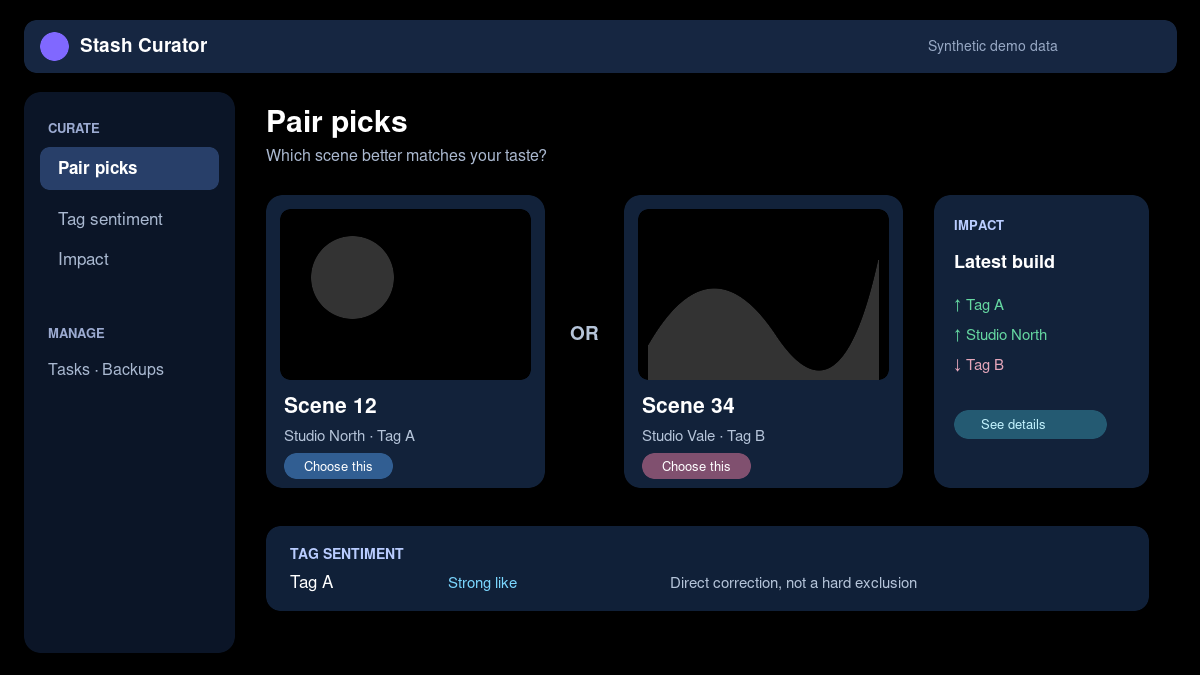
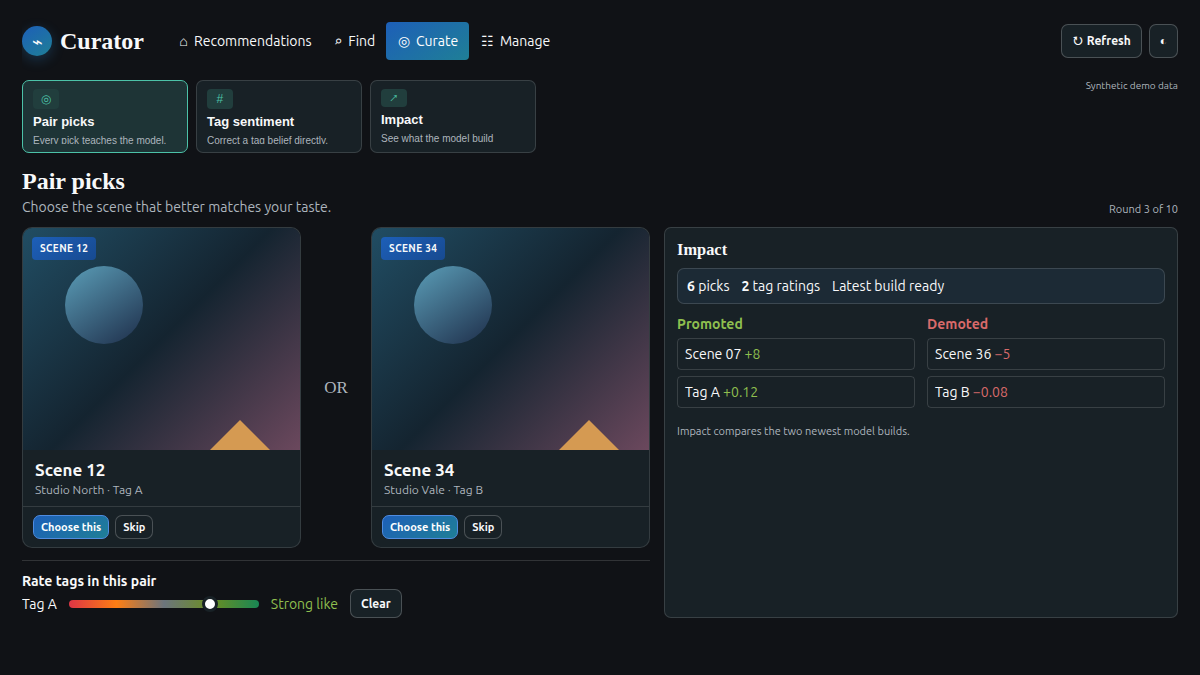
docs: make showcase mocks match curator ui

diff --git a/docs/assets/showcase-mocks.html b/docs/assets/showcase-mocks.html
@@ -1,0 +1,12 @@
+<!doctype html>
+<html lang="en">
+<meta charset="utf-8">
+<link rel="stylesheet" href="../../plugin/stash-curator.css">
+<style>
+*{box-sizing:border-box}body{margin:0;background:#101216;color:#f8f9fa;font:14px -apple-system,BlinkMacSystemFont,"Segoe UI",Roboto,sans-serif}.mock{height:675px;width:1200px;overflow:hidden;padding:14px 22px;background:#101216}.curator-page{margin:0;min-height:0;width:100%;padding:0;max-width:none}.curator-header{height:54px}.curator-brand{align-items:center;display:flex;gap:.5rem;flex:0 0 auto}.curator-brand-mark{align-items:center;background:var(--curator-gradient-brand);border-radius:50%;display:flex;height:30px;justify-content:center;width:30px}.curator-brand h1{font-family:var(--curator-font-display);font-size:1.5rem;margin:0}.curator-tabs{height:38px;justify-content:center}.nav-link{background:transparent;border:0;font:inherit}.controls{display:flex;gap:7px}.btn{border:1px solid var(--curator-border-strong);border-radius:var(--curator-radius);font:600 12px var(--curator-font-ui);padding:7px 10px}.content{padding-top:12px}.lane-row{display:flex;gap:8px;margin:0 0 12px}.curator-lane-card{height:73px;padding:8px 10px;width:166px}.curator-lane-card-icon{font-size:12px}.curator-lane-card-name{font-size:13px}.curator-lane-card-desc{font-size:10px}.view-head{align-items:end;display:flex;justify-content:space-between;margin:5px 0 12px}.view-head h2{font-family:var(--curator-font-display);font-size:24px;margin:0}.view-head p{color:var(--curator-text-muted);margin:4px 0 0}.subtle{color:var(--curator-text-muted);font-size:11px}.grid{display:grid;gap:12px;grid-template-columns:repeat(3,1fr)}.scene-card{background:var(--curator-card-surface)}.poster{height:173px;position:relative;background:linear-gradient(135deg,#214d63,#142430 50%,#6b485d)}.poster::before,.poster::after{content:"";position:absolute}.poster::before{background:linear-gradient(145deg,#5b9eb8,#1e2e4a);border-radius:50%;height:78px;left:42px;top:38px;width:78px}.poster::after{border:30px solid transparent;border-bottom-color:#d59a52;bottom:0;right:30px}.scene-specs{background:#0009;border-radius:3px;bottom:8px;font-size:11px;padding:4px 6px;position:absolute;right:8px}.badge{background:linear-gradient(145deg,#1d5fb8,#174a90);border-radius:4px;font-size:10px;font-weight:700;left:9px;letter-spacing:.04em;padding:6px 8px;position:absolute;top:9px}.card-section{padding:10px 12px}.card-section-title{font-size:17px;font-weight:700;margin:0 0 4px}.card-meta{color:var(--curator-card-text-muted);font-size:12px}.card-actions{border-top:1px solid var(--curator-card-border);display:flex;gap:6px;padding:8px 10px}.card-actions .btn{font-size:11px;padding:5px 7px}.explain{background:var(--curator-surface);border:1px solid var(--curator-border);border-radius:var(--curator-radius-lg);margin-top:12px;padding:12px 14px}.explain-grid{display:grid;gap:18px;grid-template-columns:1.15fr .85fr}.explain h3{font-family:var(--curator-font-display);font-size:17px;margin:0 0 7px}.explain p{color:var(--curator-text-muted);margin:0}.evidence{display:grid;gap:6px}.evidence div{align-items:center;border-bottom:1px solid var(--curator-border);display:flex;justify-content:space-between;padding-bottom:5px}.support{color:#8fbf4f}.bar{background:var(--curator-wash-recessed);border-radius:4px;height:7px;overflow:hidden;width:135px}.bar i{background:var(--curator-accent);display:block;height:100%;width:76%}.find-toolbar{align-items:center;background:var(--curator-surface);border:1px solid var(--curator-border);border-radius:var(--curator-radius);display:flex;gap:8px;margin-bottom:12px;padding:9px}.field{background:var(--curator-bg);border:1px solid var(--curator-border);border-radius:4px;color:var(--curator-text-muted);flex:1;padding:8px}.find-grid{display:grid;gap:12px;grid-template-columns:1.2fr .8fr}.result-list{display:grid;gap:9px;grid-template-columns:repeat(2,1fr)}.external{border-left:3px solid var(--curator-hue-expand)}.external .poster{height:116px;background:linear-gradient(135deg,#583544,#2b3f63)}.external:nth-child(2) .poster{background:linear-gradient(135deg,#274e43,#463264)}.side-panel{background:var(--curator-surface);border:1px solid var(--curator-border);border-radius:var(--curator-radius);padding:13px}.side-panel h3{font-family:var(--curator-font-display);margin:0 0 8px}.filter{border-bottom:1px solid var(--curator-border);color:var(--curator-text-muted);display:flex;justify-content:space-between;padding:9px 0}.pair{display:grid;gap:12px;grid-template-columns:1fr 46px 1fr}.pair .scene-card{border:1px solid var(--curator-card-border);border-radius:var(--curator-radius-lg);overflow:hidden}.pair .poster{height:222px}.versus{align-self:center;color:var(--curator-text-muted);font-family:var(--curator-font-display);font-size:17px;text-align:center}.curate-layout{display:grid;gap:14px;grid-template-columns:1.1fr .9fr}.sentiment{border-top:1px solid var(--curator-border);margin-top:12px;padding-top:12px}.sentiment-row{align-items:center;display:flex;gap:12px}.track{background:linear-gradient(90deg,#dc3545,#fd7e14,#6c757d,#6b8e23,#198754);border-radius:6px;height:8px;position:relative;width:190px}.track i{background:#fff;border:3px solid var(--curator-surface);border-radius:50%;height:16px;left:70%;position:absolute;top:-4px;width:16px}.impact-card{background:var(--curator-surface);border:1px solid var(--curator-border);border-radius:var(--curator-radius);padding:12px}.impact-card h3{font-family:var(--curator-font-display);margin:0 0 8px}.impact-summary{background:color-mix(in srgb,var(--curator-accent) 8%,var(--curator-surface));border:1px solid var(--curator-border);border-radius:var(--curator-radius);display:flex;gap:12px;margin-bottom:12px;padding:9px}.impact-columns{display:grid;gap:12px;grid-template-columns:1fr 1fr}.impact-row{border:1px solid var(--curator-border);border-radius:4px;margin:6px 0;padding:7px}.up{color:#8fbf4f}.down{color:#d96a6a}.synthetic{color:var(--curator-text-muted);font-size:10px;margin-left:auto}
+</style>
+<body>
+<section class="mock" id="recommendations"><main class="curator-page"><header class="curator-header"><div class="curator-brand"><span class="curator-brand-mark">⌁</span><h1>Curator</h1></div><nav class="curator-navigation"><div class="curator-tabs"><button class="nav-link active">⌂ <span>Recommendations</span></button><button class="nav-link">⌕ <span>Find</span></button><button class="nav-link">◎ <span>Curate</span></button><button class="nav-link">☷ <span>Manage</span></button></div></nav><div class="controls"><button class="btn btn-secondary">↻ Refresh</button><button class="btn btn-secondary">◐</button></div></header><div class="content"><div class="lane-row curator-lane-switcher"><button class="curator-lane-card" aria-pressed="true" style="--lc:var(--curator-hue-for_you)"><span class="curator-lane-card-icon">✦</span><span class="curator-lane-card-name">For You</span><span class="curator-lane-card-desc">A balanced shelf of strong matches.</span></button><button class="curator-lane-card"><span class="curator-lane-card-icon">★</span><span class="curator-lane-card-name">Best Bets</span><span class="curator-lane-card-desc">Strong unseen matches.</span></button><button class="curator-lane-card"><span class="curator-lane-card-icon">↺</span><span class="curator-lane-card-name">Revisit</span><span class="curator-lane-card-desc">Good scenes, ready again.</span></button><button class="curator-lane-card"><span class="curator-lane-card-icon">↗</span><span class="curator-lane-card-name">Stretch</span><span class="curator-lane-card-desc">Familiar with one challenge.</span></button><button class="curator-lane-card"><span class="curator-lane-card-icon">◌</span><span class="curator-lane-card-name">Blind Spots</span><span class="curator-lane-card-desc">A corroborated library gap.</span></button><span class="synthetic">Synthetic demo data</span></div><div class="view-head"><div><h2>For You</h2><p>Balanced recommendations, with a little exploration.</p></div><button class="btn btn-secondary">Balanced ▾</button></div><div class="grid"><article class="curator-card"><div class="scene-card"><div class="poster"><span class="badge">FOR YOU</span><span class="scene-specs">1080p · 24m</span></div><div class="card-section"><div class="card-section-title">Scene 12</div><div class="card-meta">Studio North · Tag A · Tag C</div></div></div><div class="card-actions"><button class="btn btn-secondary">Why this?</button><button class="btn btn-secondary">♡</button><button class="btn btn-secondary">☰</button></div></article><article class="curator-card"><div class="scene-card"><div class="poster"><span class="badge">REVISIT</span><span class="scene-specs">4K · 31m</span></div><div class="card-section"><div class="card-section-title">Scene 27</div><div class="card-meta">Studio Vale · Tag B · Tag D</div></div></div><div class="card-actions"><button class="btn btn-secondary">Why this?</button><button class="btn btn-secondary">♡</button><button class="btn btn-secondary">☰</button></div></article><article class="curator-card"><div class="scene-card"><div class="poster"><span class="badge">STRETCH</span><span class="scene-specs">1080p · 18m</span></div><div class="card-section"><div class="card-section-title">Scene 43</div><div class="card-meta">Studio Field · Tag A · Tag E</div></div></div><div class="card-actions"><button class="btn btn-secondary">Why this?</button><button class="btn btn-secondary">♡</button><button class="btn btn-secondary">☰</button></div></article></div><section class="explain"><div class="explain-grid"><div><h3>Why this?</h3><p>Strong positive history with Studio North and a familiar content pattern support this pick.</p></div><div class="evidence"><div><span class="support">Supports</span><strong>Studio appeal</strong><span>86%</span></div><div><span class="support">Supports</span><strong>Familiar content pattern</strong><span>74%</span></div><div><span>Current fit</span><span class="bar"><i></i></span></div></div></div></section></div></main></section>
+<section class="mock" id="find"><main class="curator-page"><header class="curator-header"><div class="curator-brand"><span class="curator-brand-mark">⌁</span><h1>Curator</h1></div><nav class="curator-navigation"><div class="curator-tabs"><button class="nav-link">⌂ <span>Recommendations</span></button><button class="nav-link active">⌕ <span>Find</span></button><button class="nav-link">◎ <span>Curate</span></button><button class="nav-link">☷ <span>Manage</span></button></div></nav><div class="controls"><button class="btn btn-secondary">↻ Refresh</button><button class="btn btn-secondary">◐</button></div></header><div class="content"><div class="lane-row curator-find-switcher"><button class="curator-lane-card" aria-pressed="true" style="--lc:var(--curator-hue-similar)"><span class="curator-lane-card-icon">⌕</span><span class="curator-lane-card-name">Similar</span><span class="curator-lane-card-desc">Find related scenes and performers.</span></button><button class="curator-lane-card" style="--lc:var(--curator-hue-expand)"><span class="curator-lane-card-icon">↗</span><span class="curator-lane-card-name">Expand</span><span class="curator-lane-card-desc">External metadata candidates.</span></button><button class="curator-lane-card" style="--lc:var(--curator-hue-hunt)"><span class="curator-lane-card-icon">◉</span><span class="curator-lane-card-name">Performer Hunt</span><span class="curator-lane-card-desc">Follow a performer’s catalog.</span></button><span class="synthetic">Synthetic demo data</span></div><div class="view-head"><div><h2>Similar</h2><p>Find related library scenes and performers.</p></div></div><div class="find-toolbar"><div class="field">Scene 12</div><button class="btn btn-secondary">Library ▾</button><button class="btn btn-primary">Find similar</button></div><div class="find-grid"><div class="result-list"><article class="curator-card"><div class="scene-card"><div class="poster"><span class="badge">SIMILAR</span></div><div class="card-section"><div class="card-section-title">Scene 07</div><div class="card-meta">Studio North · 84% related</div></div></div><div class="card-actions"><button class="btn btn-secondary">Why this?</button><button class="btn btn-secondary">♡</button></div></article><article class="curator-card"><div class="scene-card"><div class="poster"><span class="badge">SIMILAR</span></div><div class="card-section"><div class="card-section-title">Scene 36</div><div class="card-meta">Studio Field · 79% related</div></div></div><div class="card-actions"><button class="btn btn-secondary">Why this?</button><button class="btn btn-secondary">♡</button></div></article><article class="curator-card external"><div class="scene-card"><div class="poster"><span class="badge">EXPAND</span></div><div class="card-section"><div class="card-section-title">Scene 51</div><div class="card-meta">External metadata lead · 76%</div></div></div></article><article class="curator-card external"><div class="scene-card"><div class="poster"><span class="badge">HUNT</span></div><div class="card-section"><div class="card-section-title">Scene 64</div><div class="card-meta">Performer catalog result</div></div></div></article></div><aside class="side-panel"><h3>Filters</h3><div class="filter"><span>Result type</span><strong>Scenes</strong></div><div class="filter"><span>Include tags</span><strong>+ Add</strong></div><div class="filter"><span>Exclude tags</span><strong>+ Add</strong></div><div class="filter"><span>Hide exact PHash</span><strong>On</strong></div><p class="subtle">External results are metadata leads, not proof that a scene is available locally.</p></aside></div></div></main></section>
+<section class="mock" id="curate"><main class="curator-page"><header class="curator-header"><div class="curator-brand"><span class="curator-brand-mark">⌁</span><h1>Curator</h1></div><nav class="curator-navigation"><div class="curator-tabs"><button class="nav-link">⌂ <span>Recommendations</span></button><button class="nav-link">⌕ <span>Find</span></button><button class="nav-link active">◎ <span>Curate</span></button><button class="nav-link">☷ <span>Manage</span></button></div></nav><div class="controls"><button class="btn btn-secondary">↻ Refresh</button><button class="btn btn-secondary">◐</button></div></header><div class="content"><div class="lane-row curator-curate-switcher"><button class="curator-lane-card" aria-pressed="true" style="--lc:var(--curator-hue-curate)"><span class="curator-lane-card-icon">◎</span><span class="curator-lane-card-name">Pair picks</span><span class="curator-lane-card-desc">Every pick teaches the model.</span></button><button class="curator-lane-card" style="--lc:var(--curator-hue-curate)"><span class="curator-lane-card-icon">#</span><span class="curator-lane-card-name">Tag sentiment</span><span class="curator-lane-card-desc">Correct a tag belief directly.</span></button><button class="curator-lane-card" style="--lc:var(--curator-hue-curate)"><span class="curator-lane-card-icon">↗</span><span class="curator-lane-card-name">Impact</span><span class="curator-lane-card-desc">See what the model build moved.</span></button><span class="synthetic">Synthetic demo data</span></div><div class="view-head"><div><h2>Pair picks</h2><p>Choose the scene that better matches your taste.</p></div><span class="subtle">Round 3 of 10</span></div><div class="curate-layout"><div><div class="pair"><article class="scene-card"><div class="poster"><span class="badge">SCENE 12</span></div><div class="card-section"><div class="card-section-title">Scene 12</div><div class="card-meta">Studio North · Tag A</div></div><div class="card-actions"><button class="btn btn-primary">Choose this</button><button class="btn btn-secondary">Skip</button></div></article><div class="versus">OR</div><article class="scene-card"><div class="poster"><span class="badge">SCENE 34</span></div><div class="card-section"><div class="card-section-title">Scene 34</div><div class="card-meta">Studio Vale · Tag B</div></div><div class="card-actions"><button class="btn btn-primary">Choose this</button><button class="btn btn-secondary">Skip</button></div></article></div><div class="sentiment"><strong>Rate tags in this pair</strong><div class="sentiment-row"><span>Tag A</span><span class="track"><i></i></span><span class="support">Strong like</span><button class="btn btn-secondary">Clear</button></div></div></div><aside class="impact-card"><h3>Impact</h3><div class="impact-summary"><span><strong>6</strong> picks</span><span><strong>2</strong> tag ratings</span><span>Latest build ready</span></div><div class="impact-columns"><div><strong class="up">Promoted</strong><div class="impact-row">Scene 07 <span class="up">+8</span></div><div class="impact-row">Tag A <span class="up">+0.12</span></div></div><div><strong class="down">Demoted</strong><div class="impact-row">Scene 36 <span class="down">−5</span></div><div class="impact-row">Tag B <span class="down">−0.08</span></div></div></div><p class="subtle">Impact compares the two newest model builds.</p></aside></div></div></main></section>
+</body></html>

diff --git a/docs/assets/render_showcases.py b/docs/assets/render_showcases.py
@@ -1,0 +1,15 @@
+from pathlib import Path
+
+from playwright.sync_api import sync_playwright
+
+ROOT = Path(__file__).parent
+SOURCE = (ROOT / "showcase-mocks.html").as_uri()
+
+
+with sync_playwright() as playwright:
+    browser = playwright.chromium.launch()
+    page = browser.new_page(viewport={"width": 1200, "height": 675}, device_scale_factor=1)
+    page.goto(SOURCE)
+    for name in ("recommendations", "find", "curate"):
+        page.locator(f"#{name}").screenshot(path=ROOT / f"showcase-{name}.png")
+    browser.close()
